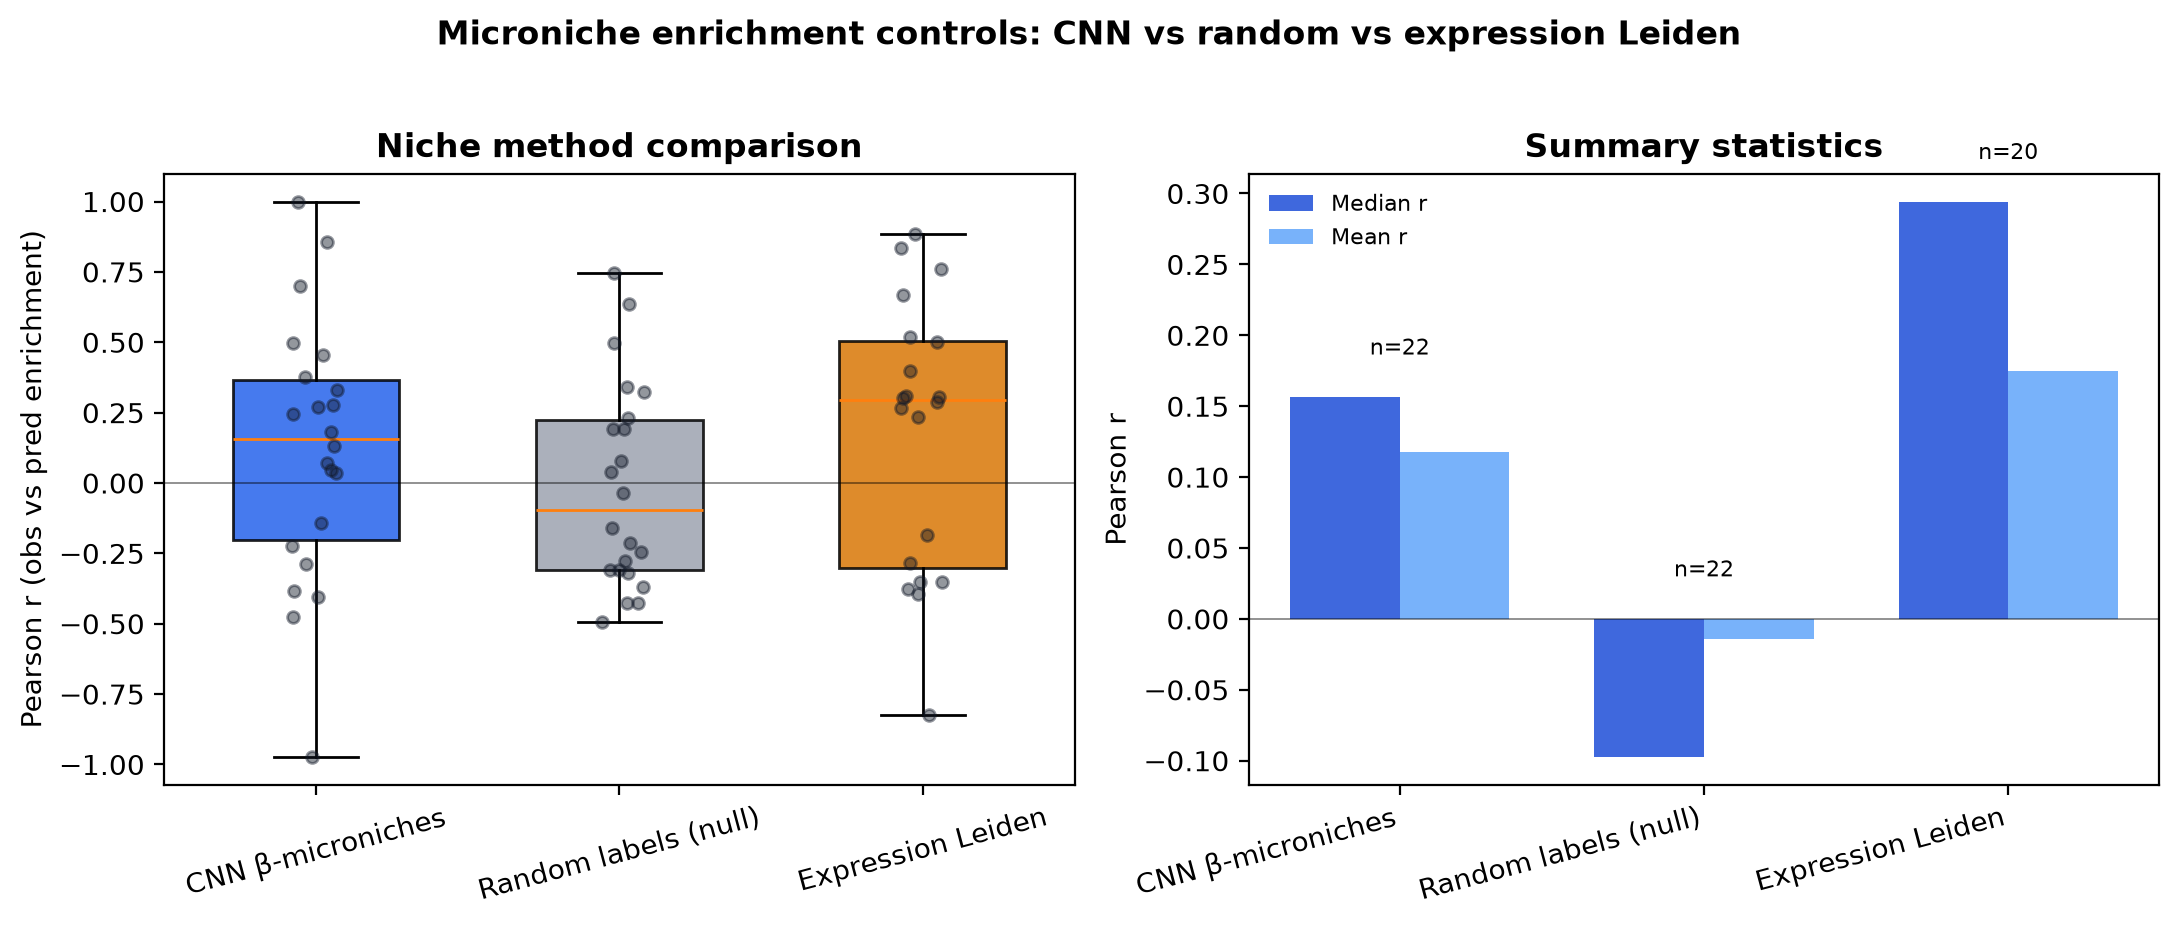
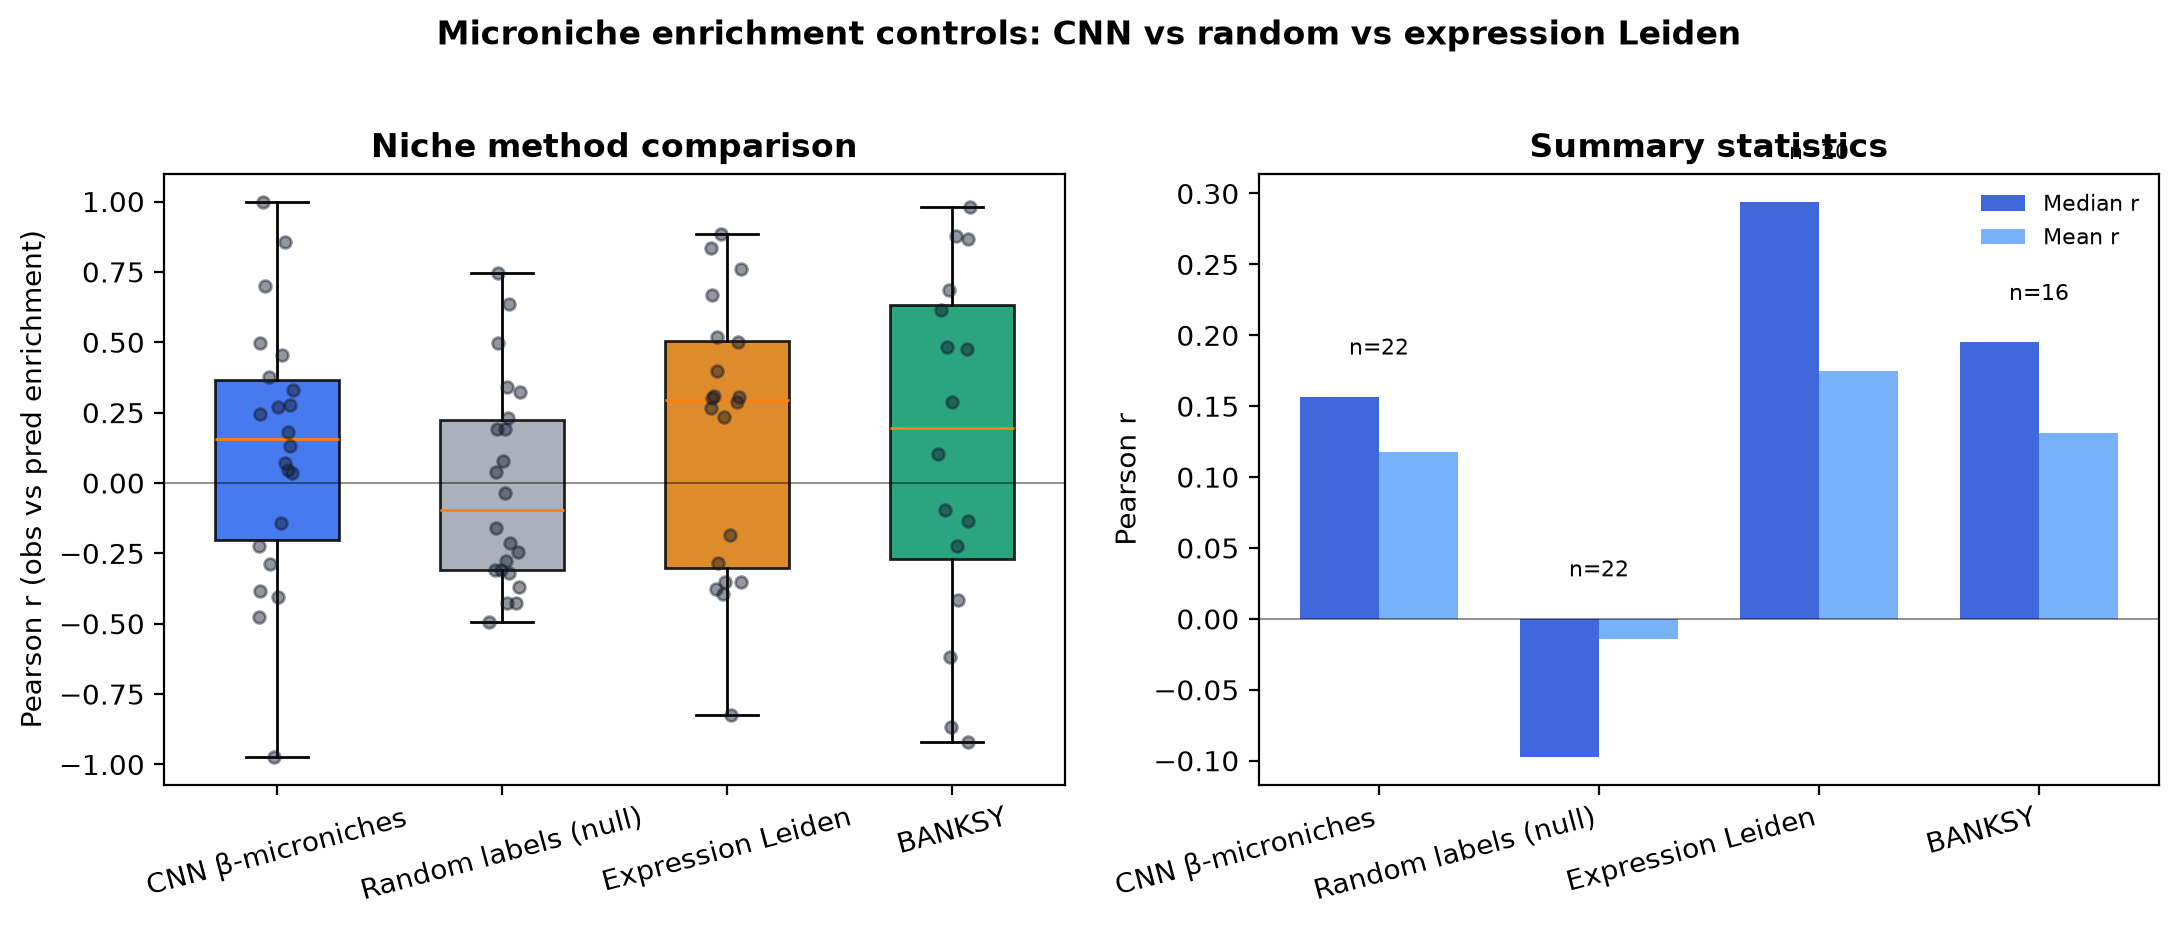
Add BANKSY spatial clusters to microniche enrichment controls
Integrate pybanksy (λ=0.2, k_geom=15, Leiden r=0.8) as a fourth niche
assignment method alongside CNN β-microniches, random labels, and expression
Leiden. BANKSY shows moderate enrichment signal (median r=+0.19), between CNN
(+0.16) and expression Leiden (+0.29), while random labels remain near zero.

diff --git a/analysis/spacseq_tardis_validation/scripts/cnn_microniche_utils.py b/analysis/spacseq_tardis_validation/scripts/cnn_microniche_utils.py
@@ -2,6 +2,9 @@
 
 from __future__ import annotations
 
+import contextlib
+import io
+import tempfile
 from pathlib import Path
 
 import numpy as np
@@ -213,6 +216,31 @@ def shuffle_microniche_labels(labels: pd.Series, seed: int = 42) -> pd.Series:
     return out
 
 
+def _expression_clustering_matrix(ad: sc.AnnData, n_top_genes: int = 1500) -> sc.AnnData:
+    if "imputed_count" in ad.layers:
+        x = ad.layers["imputed_count"]
+    else:
+        x = ad.X
+    mat = x.toarray() if sparse.issparse(x) else np.asarray(x)
+    mat = np.nan_to_num(mat.astype(np.float64), nan=0.0, posinf=0.0, neginf=0.0)
+    mat = np.log1p(np.clip(mat, 0.0, None))
+
+    tmp = sc.AnnData(X=mat, obs=ad.obs.copy(), var=ad.var.copy())
+    tmp.obsm["spatial"] = ad.obsm["spatial"].copy()
+    sc.pp.filter_genes(tmp, min_cells=3)
+    gene_var = tmp.X.var(axis=0)
+    keep = gene_var > 1e-8
+    if int(keep.sum()) < 50:
+        keep = np.ones(tmp.n_vars, dtype=bool)
+    top_k = min(n_top_genes, int(keep.sum()))
+    top_idx = np.argsort(gene_var[keep])[-top_k:]
+    gene_idx = np.where(keep)[0][top_idx]
+    tmp = tmp[:, gene_idx].copy()
+    sc.pp.scale(tmp, max_value=10)
+    tmp.X = np.nan_to_num(tmp.X, nan=0.0)
+    return tmp
+
+
 def leiden_expression_clusters(
     ad: sc.AnnData,
     n_pcs: int = 15,
@@ -227,27 +255,8 @@ def leiden_expression_clusters(
     if ad.n_obs < min_cells:
         return pd.Series("0", index=ad.obs_names, name=key)
 
-    if "imputed_count" in ad.layers:
-        x = ad.layers["imputed_count"]
-    else:
-        x = ad.X
-    mat = x.toarray() if sparse.issparse(x) else np.asarray(x)
-    mat = np.nan_to_num(mat.astype(np.float64), nan=0.0, posinf=0.0, neginf=0.0)
-    mat = np.log1p(np.clip(mat, 0.0, None))
-
-    gene_var = mat.var(axis=0)
-    keep = gene_var > 1e-8
-    if int(keep.sum()) < 50:
-        keep = np.ones(mat.shape[1], dtype=bool)
-    top_k = min(n_top_genes, int(keep.sum()))
-    top_idx = np.argsort(gene_var[keep])[-top_k:]
-    gene_idx = np.where(keep)[0][top_idx]
-    mat = mat[:, gene_idx]
-
-    tmp = sc.AnnData(X=mat)
-    sc.pp.scale(tmp, max_value=10)
-    tmp.X = np.nan_to_num(tmp.X, nan=0.0)
-    n_pcs = min(n_pcs, mat.shape[1] - 1, ad.n_obs - 1)
+    tmp = _expression_clustering_matrix(ad, n_top_genes=n_top_genes)
+    n_pcs = min(n_pcs, tmp.n_vars - 1, ad.n_obs - 1)
     sc.tl.pca(tmp, n_comps=n_pcs, svd_solver="arpack")
     expr_pca = tmp.obsm["X_pca"]
 
@@ -278,6 +287,93 @@ def assign_slice_expression_clusters(
     sub_labels = leiden_expression_clusters(sub, **leiden_kw)
     if prefix:
         sub_labels = sub_labels.astype(str).radd(f"{slice_id}|{cell_type}|expr|")
+    labels.loc[sub.obs_names] = sub_labels.values
+    return labels.fillna("unassigned")
+
+
+def banksy_clusters(
+    ad: sc.AnnData,
+    resolution: float = 0.9,
+    num_neighbours: int = 15,
+    lambda_param: float = 0.2,
+    min_cells: int = 20,
+    n_top_genes: int = 1500,
+    key: str = "banksy",
+    tmp_dir: Path | None = None,
+) -> pd.Series:
+    """BANKSY spatial clusters (expression + neighborhood-augmented features)."""
+    if ad.n_obs < min_cells:
+        return pd.Series("0", index=ad.obs_names, name=key)
+
+    try:
+        from banksy.initialize_banksy import initialize_banksy
+        from banksy.run_banksy import run_banksy_multiparam
+    except ImportError as exc:
+        raise SystemExit(
+            "pybanksy is required for BANKSY clustering. Install with: pip install pybanksy"
+        ) from exc
+
+    tmp = _expression_clustering_matrix(ad, n_top_genes=n_top_genes)
+    xy = tmp.obsm["spatial"]
+    tmp.obs["x"] = xy[:, 0]
+    tmp.obs["y"] = xy[:, 1]
+
+    with contextlib.redirect_stdout(io.StringIO()):
+        banksy_dict = initialize_banksy(
+            tmp,
+            coord_keys=("x", "y", "spatial"),
+            num_neighbours=num_neighbours,
+            nbr_weight_decay="scaled_gaussian",
+            plt_edge_hist=False,
+            plt_nbr_weights=False,
+            plt_theta=False,
+        )
+        out_dir = Path(tmp_dir) if tmp_dir is not None else Path(tempfile.mkdtemp(prefix="banksy_"))
+        out_dir.mkdir(parents=True, exist_ok=True)
+        color_list = [
+            "#1f77b4", "#ff7f0e", "#2ca02c", "#d62728", "#9467bd",
+            "#8c564b", "#e377c2", "#7f7f7f", "#bcbd22", "#17becf",
+            "#aec7e8", "#ffbb78", "#98df8a", "#ff9896", "#c5b0d5",
+        ]
+        results = run_banksy_multiparam(
+            tmp,
+            banksy_dict,
+            lambda_list=[lambda_param],
+            resolutions=[resolution],
+            color_list=color_list,
+            max_m=1,
+            filepath=str(out_dir),
+            key=("x", "y", "spatial"),
+            annotation_key=None,
+            pca_dims=[20],
+            savefig=False,
+            add_nonspatial=False,
+            cluster_algorithm="leiden",
+        )
+
+    row = results.iloc[0]
+    labels = row["labels"]
+    if hasattr(labels, "dense"):
+        labels = labels.dense
+    return pd.Series(labels.astype(str), index=ad.obs_names, name=key)
+
+
+def assign_slice_banksy_clusters(
+    prep: sc.AnnData,
+    slice_id: str,
+    cell_type: str,
+    prefix: bool = True,
+    tmp_dir: Path | None = None,
+    **banksy_kw,
+) -> pd.Series:
+    mask = (prep.obs["slice_id"].astype(str) == slice_id) & (prep.obs["cell_type"].astype(str) == cell_type)
+    labels = pd.Series(index=prep.obs_names, dtype=str)
+    sub = prep[mask].copy()
+    if sub.n_obs == 0:
+        return labels
+    sub_labels = banksy_clusters(sub, tmp_dir=tmp_dir, **banksy_kw)
+    if prefix:
+        sub_labels = sub_labels.astype(str).radd(f"{slice_id}|{cell_type}|banksy|")
     labels.loc[sub.obs_names] = sub_labels.values
     return labels.fillna("unassigned")
 

diff --git a/analysis/spacseq_tardis_validation/scripts/25_cnn_microniche_controls.py b/analysis/spacseq_tardis_validation/scripts/25_cnn_microniche_controls.py
@@ -3,6 +3,7 @@
 
 1. Random niche labels — shuffle CNN β-Leiden labels (should not enrich).
 2. Expression Leiden — cluster tumor cells on gene expression + spatial coords.
+3. BANKSY — spatial clusters from neighborhood-augmented expression (pybanksy).
 """
 
 from __future__ import annotations
@@ -105,10 +106,27 @@ def run_control_variant(
         niche_key = "expr_leiden"
         labels = cmu.assign_slice_expression_clusters(prep, slice_id, "tumor", **leiden_kw)
         prep, pool = propagate_niche_labels(prep, pool, slice_id, labels, niche_key)
+    elif variant == "banksy":
+        niche_key = "banksy"
+        banksy_kw = {
+            "resolution": leiden_kw.get("resolution", cmu.DEFAULT_LEIDEN_KW["resolution"]),
+            "min_cells": leiden_kw.get("min_cells", cmu.DEFAULT_LEIDEN_KW["min_cells"]),
+            "num_neighbours": args.banksy_neighbours,
+            "lambda_param": args.banksy_lambda,
+        }
+        labels = cmu.assign_slice_banksy_clusters(
+            prep, slice_id, "tumor", tmp_dir=args.banksy_tmp_dir, **banksy_kw,
+        )
+        prep, pool = propagate_niche_labels(prep, pool, slice_id, labels, niche_key)
     else:
         raise ValueError(f"Unknown variant: {variant}")
 
-    tag = {"cnn": args.tag, "random_niche": "random_niche", "expr_leiden": "expr_leiden"}[variant]
+    tag = {
+        "cnn": args.tag,
+        "random_niche": "random_niche",
+        "expr_leiden": "expr_leiden",
+        "banksy": "banksy",
+    }[variant]
     enrich, corr, _, _ = run_slice_enrichment(
         slice_id,
         perts,
@@ -165,7 +183,10 @@ def main() -> None:
     ap.add_argument("--min-ntc", type=int, default=2)
     ap.add_argument("--min-pert", type=int, default=2)
     ap.add_argument("--random-seed", type=int, default=42)
-    ap.add_argument("--variants", nargs="+", default=["cnn", "random_niche", "expr_leiden"])
+    ap.add_argument("--banksy-lambda", type=float, default=0.2, help="BANKSY neighborhood weight λ")
+    ap.add_argument("--banksy-neighbours", type=int, default=15, help="BANKSY spatial neighbors k_geom")
+    ap.add_argument("--banksy-tmp-dir", type=Path, default=ROOT / "results" / "cnn_enrichment" / "banksy_tmp")
+    ap.add_argument("--variants", nargs="+", default=["cnn", "random_niche", "expr_leiden", "banksy"])
     args = ap.parse_args()
 
     leiden_kw = {
@@ -212,6 +233,8 @@ def main() -> None:
         "random_seed": args.random_seed,
         "leiden_resolution": args.leiden_resolution,
         "spatial_weight": args.spatial_weight,
+        "banksy_lambda": args.banksy_lambda,
+        "banksy_neighbours": args.banksy_neighbours,
         "variants": args.variants,
         "by_method": [summarize_corr(corr_dfs[v], v) for v in args.variants],
     }
@@ -231,16 +254,18 @@ def main() -> None:
     fig.savefig(fig_dir / "fig28_microniche_control_scatter.png", dpi=200, bbox_inches="tight")
     plt.close(fig)
 
-    for variant in ("random_niche", "expr_leiden"):
+    for variant in ("random_niche", "expr_leiden", "banksy"):
         if variant in enrich_dfs and not enrich_dfs[variant].empty:
+            title_map = {
+                "random_niche": "Random label control",
+                "expr_leiden": "Expression Leiden control",
+                "banksy": "BANKSY spatial clusters",
+            }
             fig, _ = nb_viz.plot_cnn_enrichment_scatter(
                 enrich_dfs[variant], corr_dfs[variant], top_n=6, tag=variant,
                 label_niches=True, color_by_niche=True, show_regression=True,
             )
-            fig.suptitle(
-                f"{'Random label' if variant == 'random_niche' else 'Expression Leiden'} control ({variant})",
-                fontweight="bold", y=1.02,
-            )
+            fig.suptitle(f"{title_map.get(variant, variant)} ({variant})", fontweight="bold", y=1.02)
             fig.savefig(fig_dir / f"fig20_enrichment_scatter_{variant}.png", dpi=200, bbox_inches="tight")
             plt.close(fig)
             fig, _ = nb_viz.plot_cnn_enrichment_heatmap(corr_dfs[variant], tag=variant)

diff --git a/analysis/spacseq_tardis_validation/scripts/nb_viz.py b/analysis/spacseq_tardis_validation/scripts/nb_viz.py
@@ -573,6 +573,7 @@ def plot_microniche_control_comparison(
         "cnn": "CNN β-microniches",
         "random_niche": "Random labels (null)",
         "expr_leiden": "Expression Leiden",
+        "banksy": "BANKSY",
     }
     rows = []
     for method, df in corr_by_method.items():
@@ -596,7 +597,12 @@ def plot_microniche_control_comparison(
     ax0 = axes[0]
     data = [combined.loc[combined.method == m, "pearson_r"].values for m in order]
     bp = ax0.boxplot(data, tick_labels=order, patch_artist=True, widths=0.55)
-    palette = {"CNN β-microniches": "#2563eb", "Random labels (null)": "#9ca3af", "Expression Leiden": "#d97706"}
+    palette = {
+        "CNN β-microniches": "#2563eb",
+        "Random labels (null)": "#9ca3af",
+        "Expression Leiden": "#d97706",
+        "BANKSY": "#059669",
+    }
     for patch, m in zip(bp["boxes"], order):
         patch.set_facecolor(palette.get(m, "#aec7e8"))
         patch.set_alpha(0.85)
@@ -640,6 +646,7 @@ def plot_microniche_control_heatmap(
         "cnn": "CNN β-microniches",
         "random_niche": "Random labels",
         "expr_leiden": "Expression Leiden",
+        "banksy": "BANKSY",
     }
     methods = [m for m in corr_by_method if corr_by_method[m] is not None and not corr_by_method[m].empty]
     if not methods:
@@ -671,13 +678,14 @@ def plot_microniche_control_scatter(
     method_order: list[str] | None = None,
     method_labels: dict[str, str] | None = None,
 ) -> tuple[plt.Figure, np.ndarray]:
-    """Side-by-side scatter panels for CNN, random, and expression-Leiden controls."""
+    """Side-by-side scatter panels for CNN, random, expression-Leiden, and BANKSY controls."""
     labels = method_labels or {
         "cnn": "CNN β-microniches",
         "random_niche": "Random labels",
         "expr_leiden": "Expression Leiden",
+        "banksy": "BANKSY",
     }
-    order = method_order or ["cnn", "random_niche", "expr_leiden"]
+    order = method_order or ["cnn", "random_niche", "expr_leiden", "banksy"]
     order = [m for m in order if m in enrich_by_method and m in corr_by_method]
     if not order or corr_by_method.get("cnn") is None or corr_by_method["cnn"].empty:
         fig, ax = plt.subplots(figsize=(6, 3))
